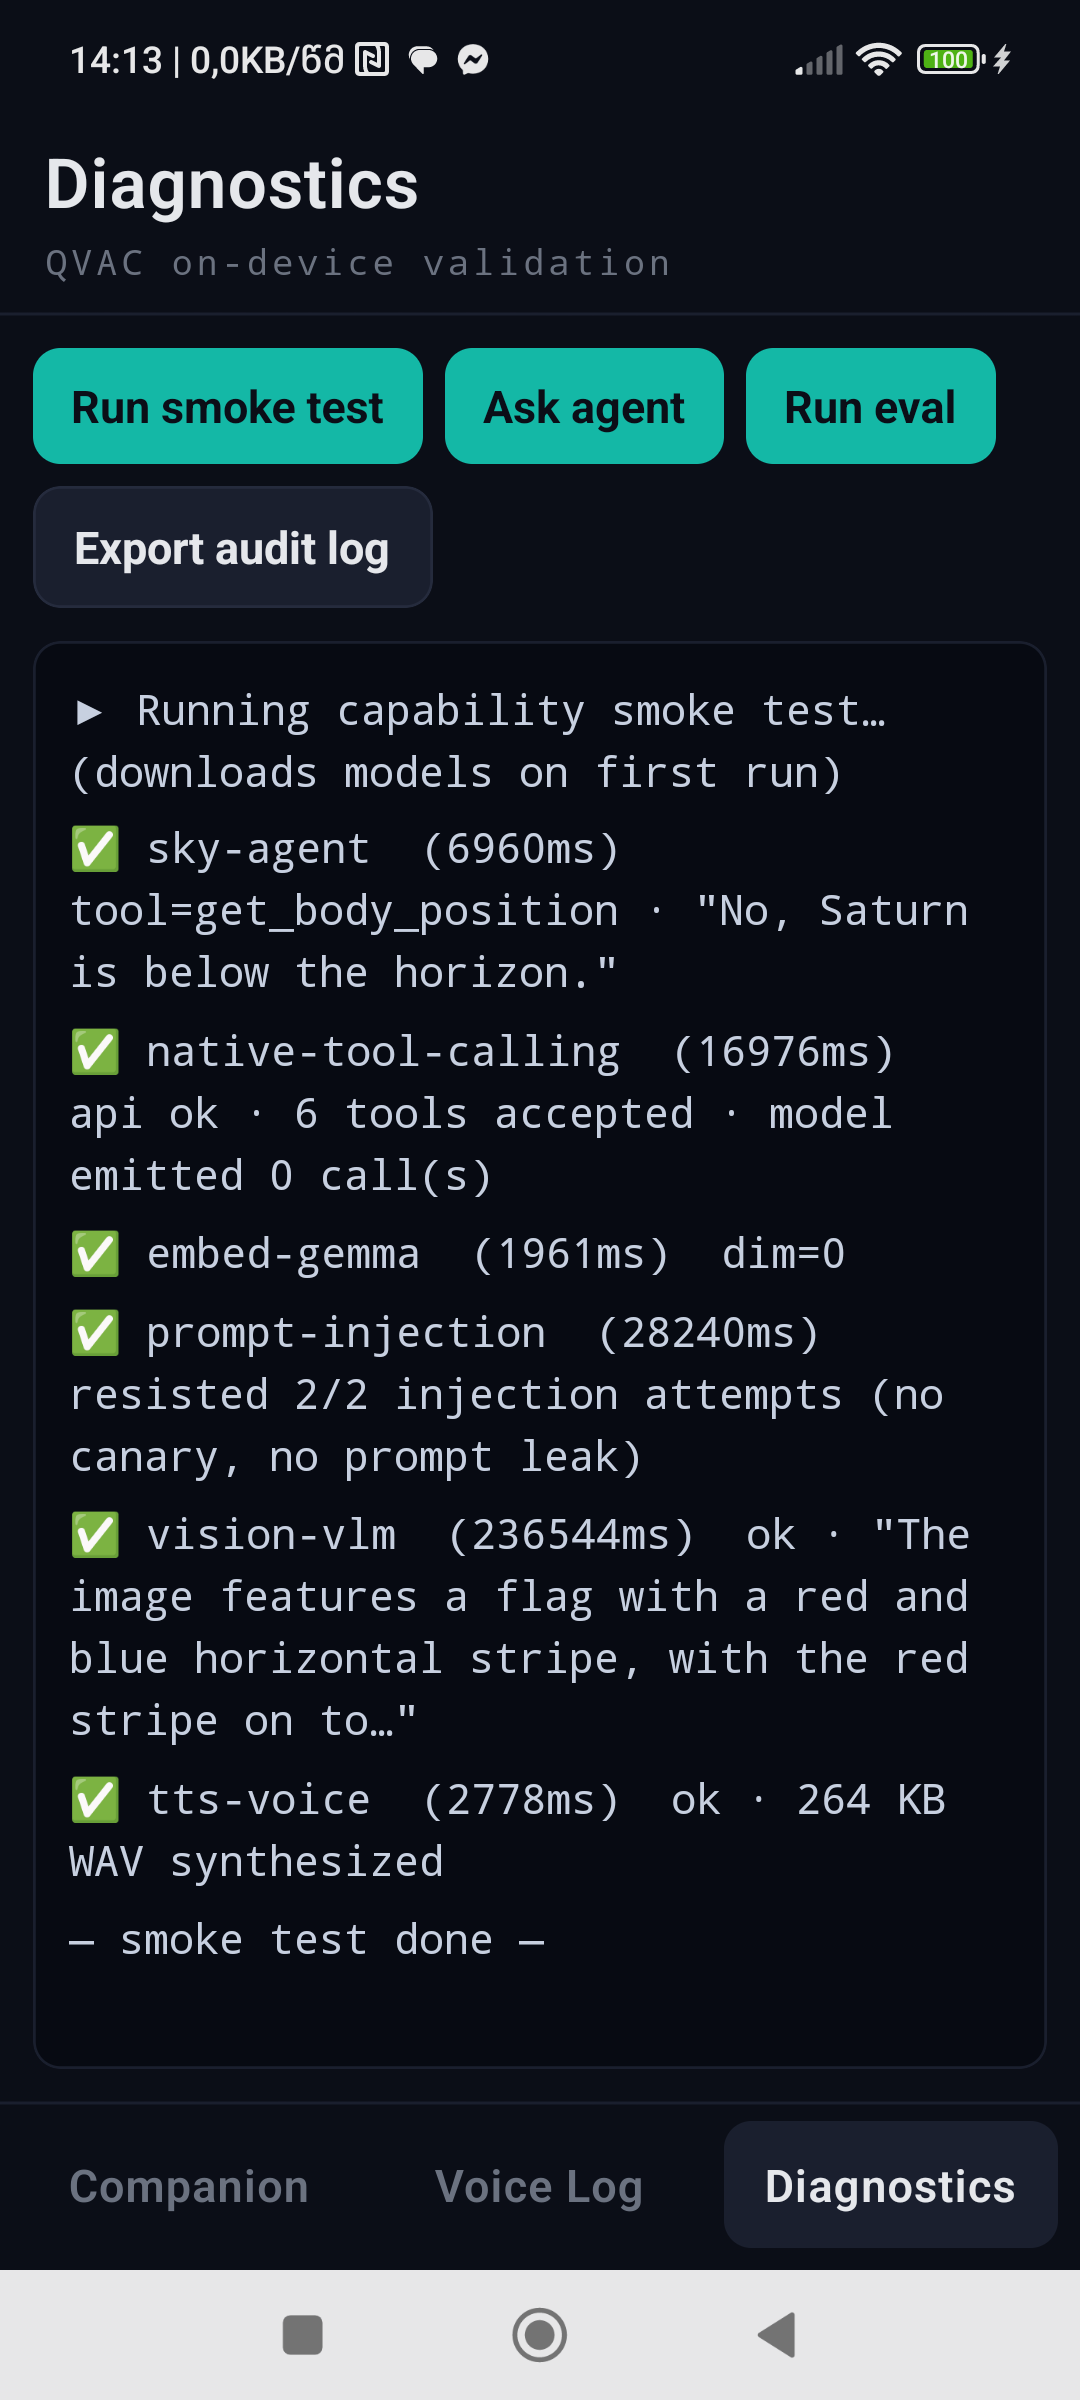
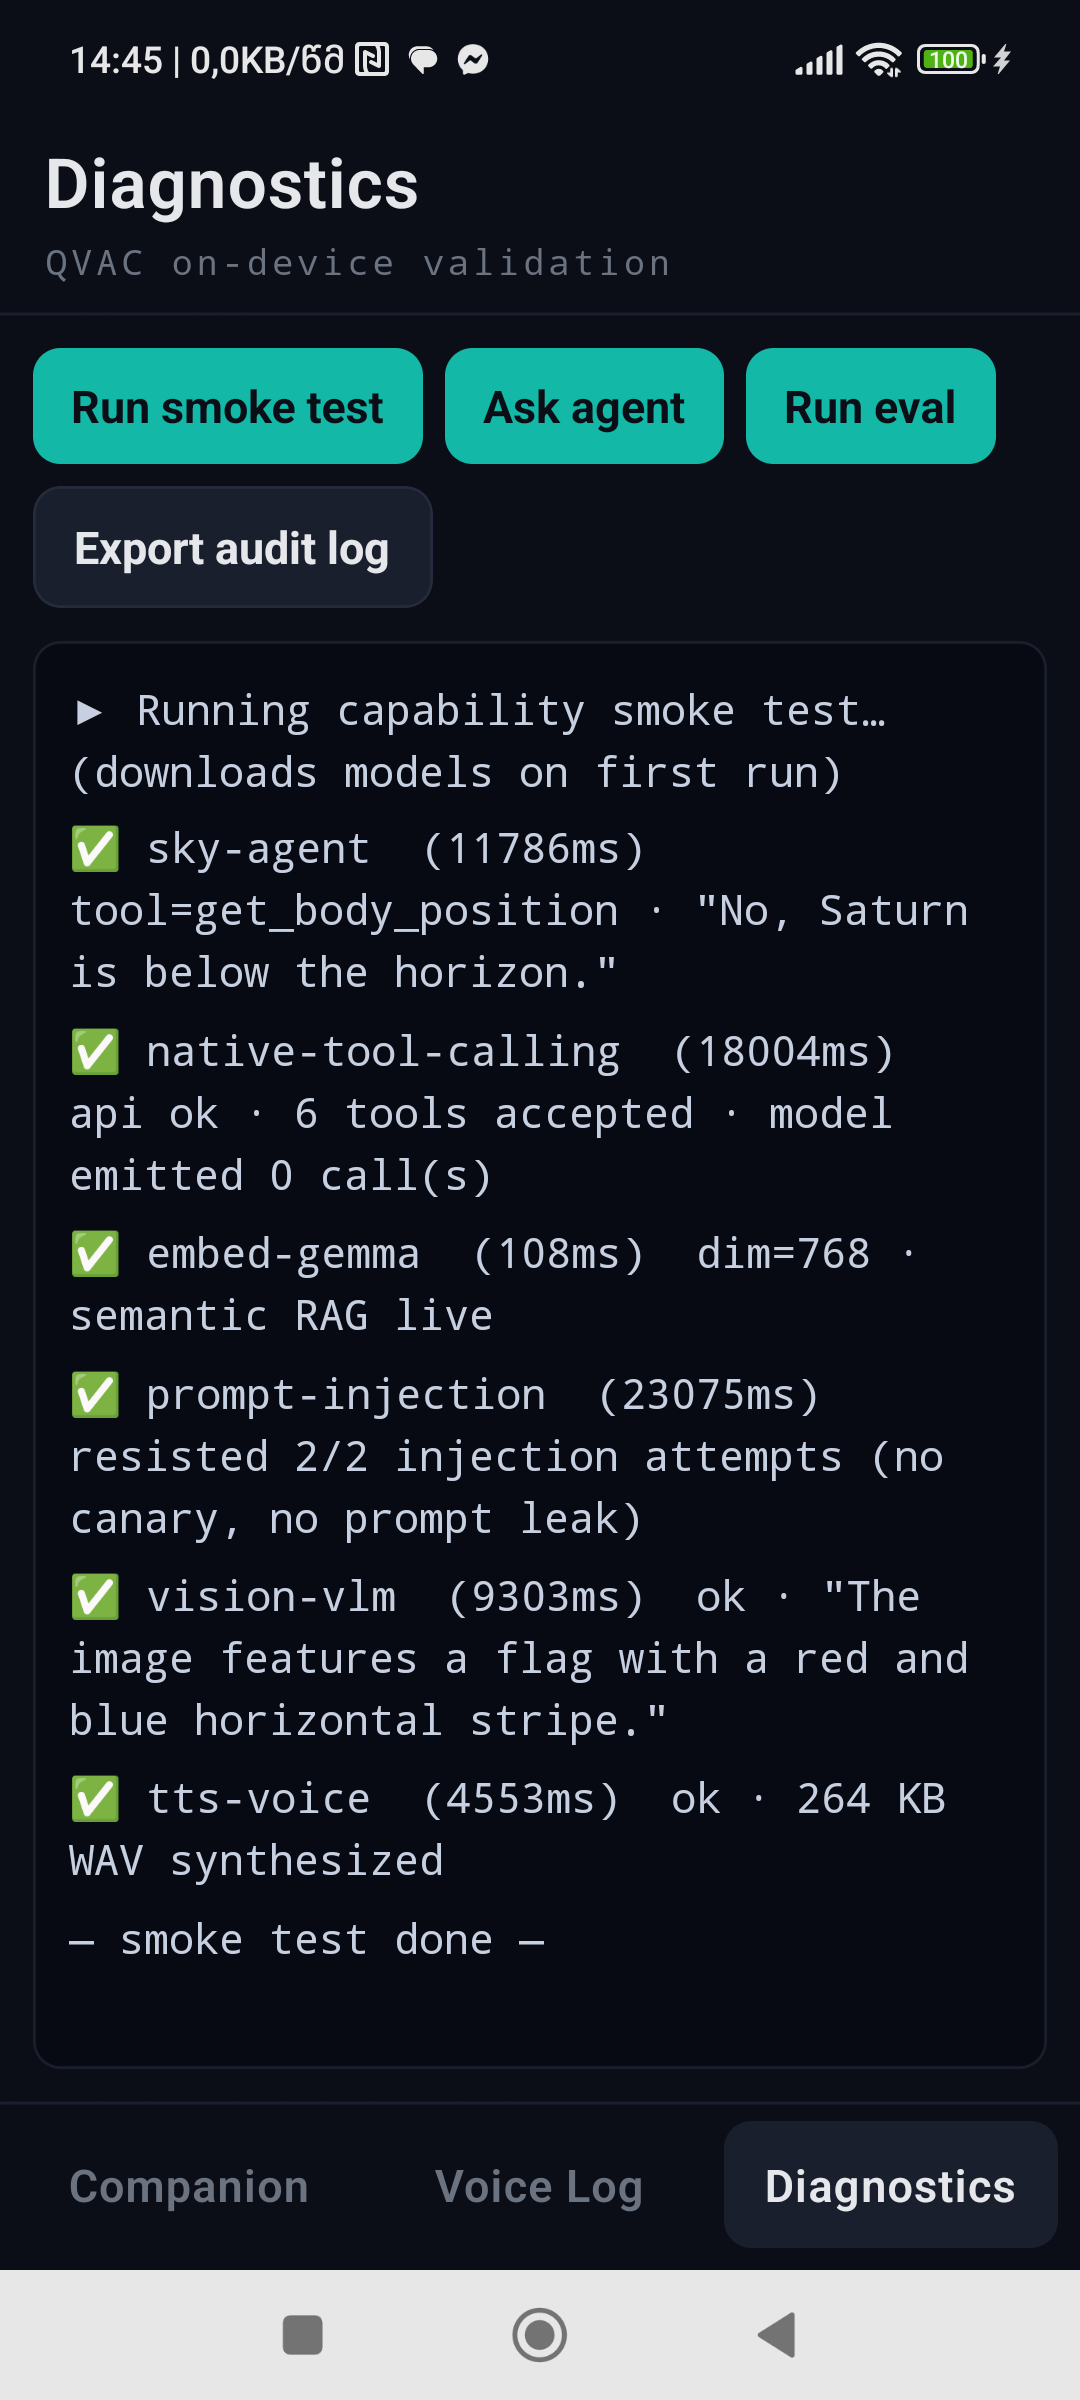
docs(field): smoke-test evidence now all green incl. embed dim=768 (semantic RAG)
Recaptured Diagnostics screenshot after the embeddings fix: embed-gemma shows
dim=768 (semantic RAG live, 108ms), prompt-injection resisted 2/2, vision/tts/
tool-calling all green. HARDWARE.md updated.

diff --git a/HARDWARE.md b/HARDWARE.md
@@ -36,7 +36,7 @@ event carries `"backendDevice": "cpu"`, i.e. real on-device compute, no cloud.
 
 Committed evidence bundle:
 - [`artifacts/qvac-audit-2026-06-09.json`](./artifacts/qvac-audit-2026-06-09.json) — comprehensive single-session run: sky orchestration + **vision** + on-device **TTS** read-aloud (2.86 s audio synthesized in 2.56 s, faster than real time)
-- [`artifacts/smoke-test-2026-06-09.png`](./artifacts/smoke-test-2026-06-09.png) — on-device Diagnostics smoke test: every capability green, incl. **`prompt-injection` resisted 2/2** and `vision-vlm` correctly describing the bundled test image
+- [`artifacts/smoke-test-2026-06-09.png`](./artifacts/smoke-test-2026-06-09.png) — on-device Diagnostics smoke test: every capability green — `sky-agent`, `native-tool-calling`, **`embed-gemma dim=768` (semantic RAG live)**, **`prompt-injection` resisted 2/2**, `vision-vlm` (describes the bundled test image), `tts-voice`
 - [`artifacts/qvac-vision-audit-2026-06-07.json`](./artifacts/qvac-vision-audit-2026-06-07.json) — live on-device VISION inferences (model load + TTFT + tokens/sec, `backendDevice: cpu`)
 - [`artifacts/qvac-eval-2026-06-05.json`](./artifacts/qvac-eval-2026-06-05.json) — per-query route/tools/latency, incl. the orchestration cases
 - [`artifacts/qvac-eval-2026-06-03.json`](./artifacts/qvac-eval-2026-06-03.json) — earlier run